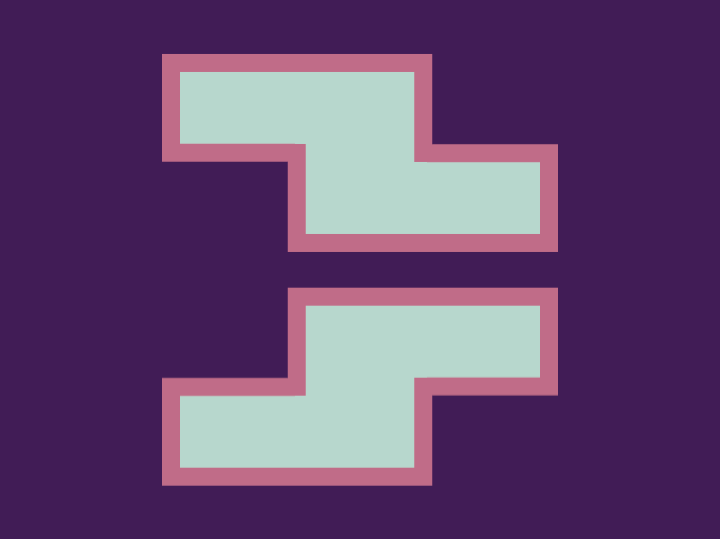
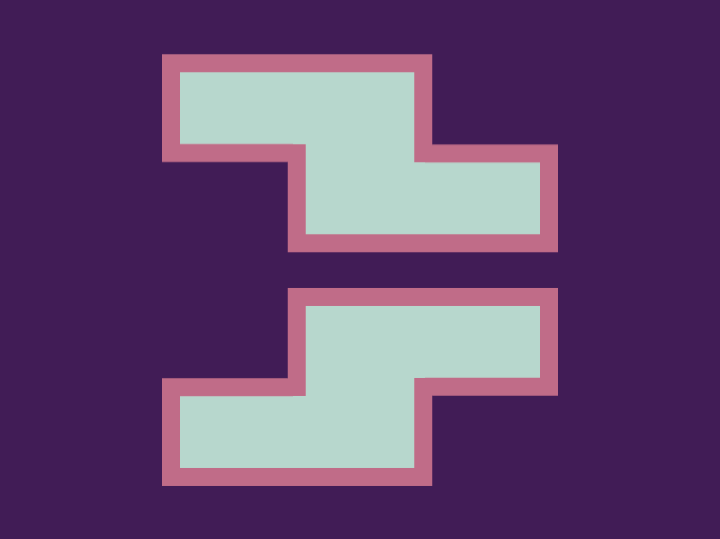
Score: 686.23, Characters: 161 (100.00% match) - CSSHub

diff --git a/README.md b/README.md
@@ -218,7 +218,7 @@
 <li><a href="./Daily%20Targets/2026-11-10/">Nov 10, 2026</a> (195 Characters)</li>
 <li><a href="./Daily%20Targets/2026-11-11/">Nov 11, 2026</a> (196 Characters)</li>
 <li><a href="./Daily%20Targets/2026-11-12/">Nov 12, 2026</a> (166 Characters)</li>
-<li><a href="./Daily%20Targets/2026-11-13/">Nov 13, 2026</a> (162 Characters)</li>
+<li><a href="./Daily%20Targets/2026-11-13/">Nov 13, 2026</a> (161 Characters)</li>
 </ul>
 </details>
 </li>

diff --git a/Daily Targets/2026-11-13/README.md b/Daily Targets/2026-11-13/README.md
@@ -22,5 +22,5 @@ Challenge: <https://cssbattle.dev/play/qLX4DEfAvKd6Cuzxphg1>
 ## Code
 
 ```html
-<style>&{background:#411C56;*{border:11q solid#C06C88;background:#B7D7CD;margin:30 90 160;corner-shape:notch;border-radius:74q/0 53q;-webkit-box-reflect:below 21q
+<style>&{background:#411C56;*{border:11q solid#C06C88;background:#B7D7CD;margin:40%90 30;corner-shape:notch;border-radius:74q/53q 0;-webkit-box-reflect:above 21q
 ```
